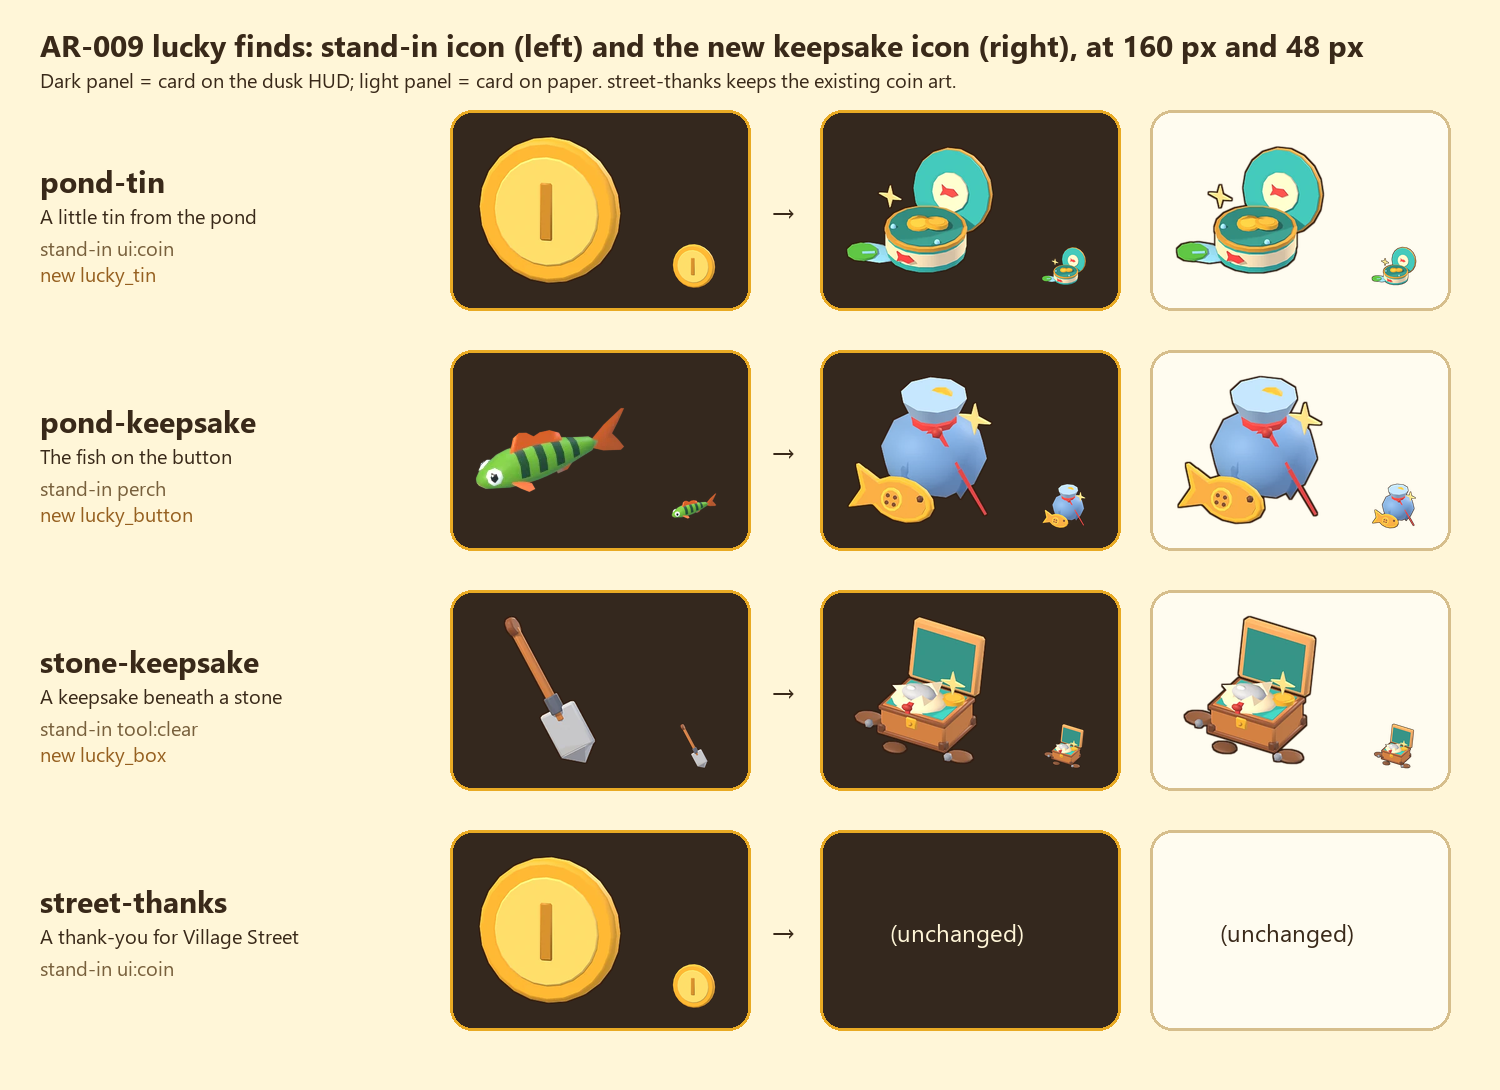
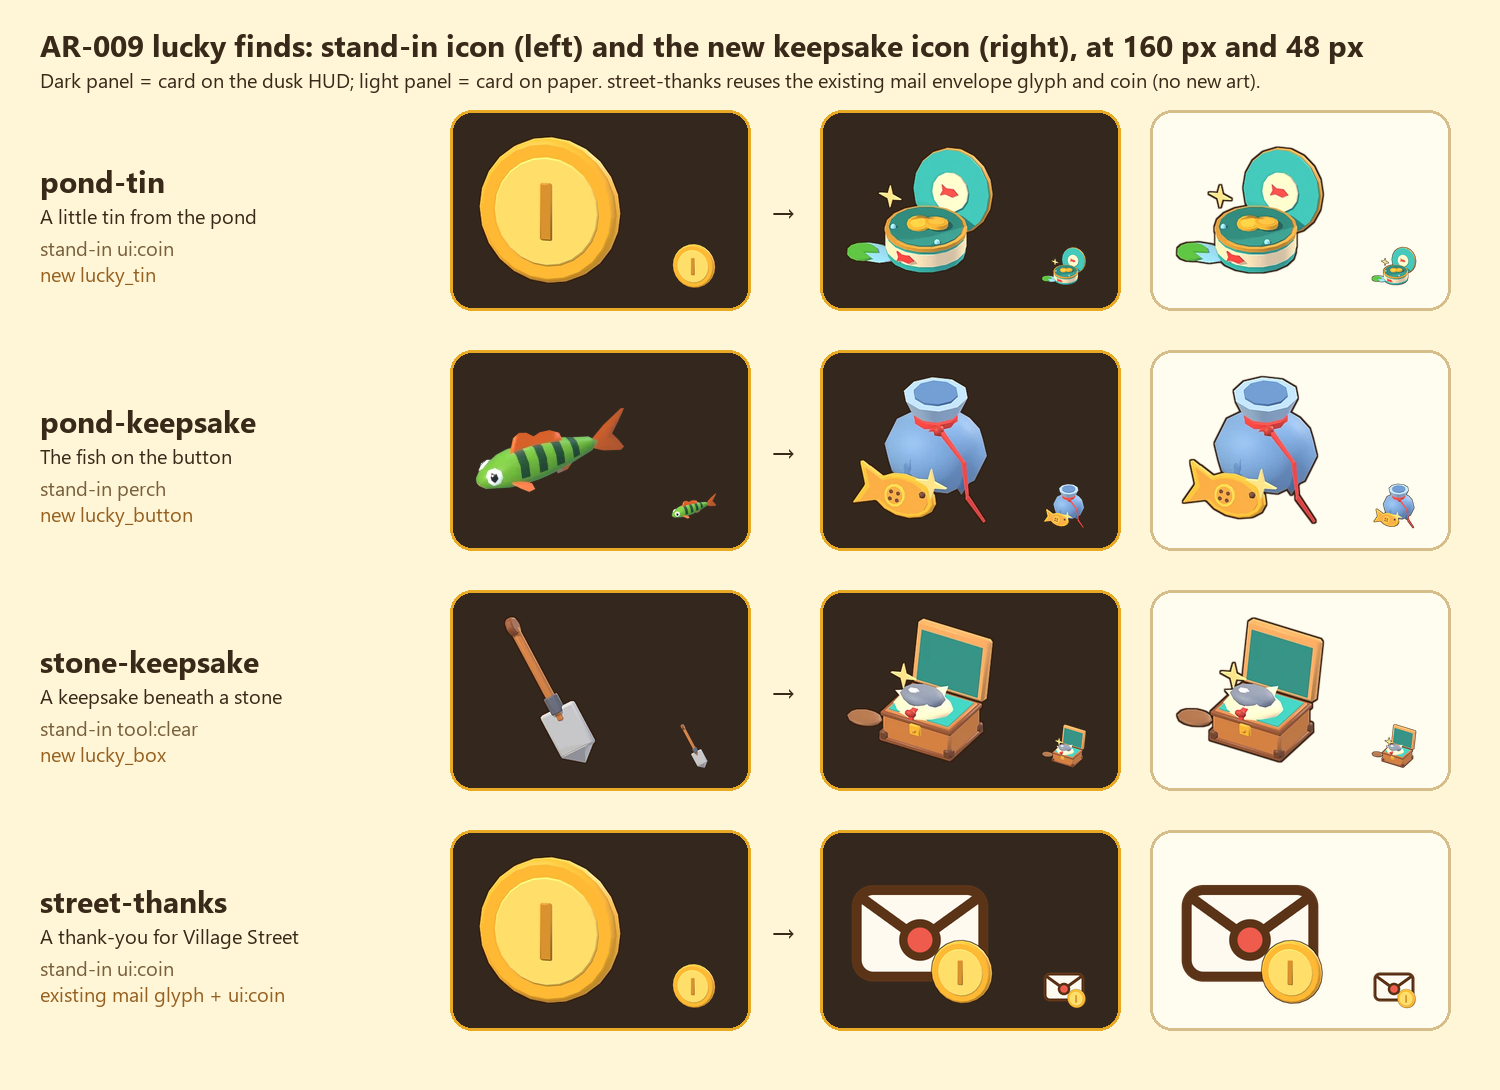
Second review pass on the keepsakes; correct the AR-009 delivery docs
Visual: the glint now sits on each subject (tin, button, pebble); the pouch
loses its coin and gets an open neck, and its drawstring drapes outside the
cloth; the box loses its coin and corner soil and gets a slate pebble; the tin's
lily pad has a real notch. Docs: measured sizes (three decimals), street-thanks
uses the existing mail envelope glyph with the coin, test results on the tree
merged with main, icon count explained, statuses set to delivered.

diff --git a/art/blender/build_farm_kit.py b/art/blender/build_farm_kit.py
@@ -41,7 +41,7 @@ for n, c in {
         'berry': '#E8335A', 'berryl': '#FF5C7A', 'bloom': '#FFFDF6', 'soil': '#7A4A2A', 'soill': '#93603A', 'soild': '#5E3720',
         'rim': '#9C6236', 'riml': '#B87A45',
         # keepsakes (AR-009)
-        'cloth': '#6F9FD8', 'clothd': '#5281BE', 'clothl': '#9DC2EC',
+        'cloth': '#6F9FD8', 'clothd': '#5281BE', 'clothl': '#9DC2EC', 'pebble': '#7D8BA6',
         }.items():
     C[n] = mat('FK ' + n, c, .55)
 
@@ -786,11 +786,11 @@ def obstacle_log():
 piece('obstacle_log', obstacle_log(), decor)
 
 # =================================================================== lucky finds (AR-009)
-# One-time keepsakes from the pond and a cleared rock, in their own kit, discovery-props.glb, which nothing loads until
-# the logic lane shows one (no world placement, no footprint). Modelled at about 0.5 m for comfortable numbers, then
-# scaled to a small handheld size (HANDHELD) when the kit is written; icons frame them either way. Warm painted colours; brass and gold only on rims, a clasp and a token coin or
-# two (the story's coins are counted in the card, not piled on the prop), plus one small four-point glint each:
-# charming keepsakes, not treasure. Each stays under the 1,200-triangle prop budget.
+# One-time keepsakes from the pond and a cleared rock, in their own kit, discovery-props.glb, which nothing loads
+# until the logic lane shows one (no world placement, no footprint). Modelled at about 0.5 m for comfortable numbers,
+# then scaled to a small handheld size (HANDHELD) when the kit is written; icons frame them either way. Warm painted
+# colours; brass and gold only on rims, the button, one clasp and two coins in the tin (the story's coins are counted
+# in the card, not piled on the props), plus one small four-point glint on each subject: keepsakes, not treasure.
 def glint(x, y, z, r=.07, mt='lampglow'):
     """A small upright four-point sparkle facing the front."""
     pts = [(math.cos(k * math.pi / 4 + math.pi / 2) * (r if k % 2 == 0 else r * .28),
@@ -804,7 +804,7 @@ def tilted(tilt, y0, z0, dy, dz):
 
 def lucky_tin():
     """A little round tin the pond gave up: teal paint, a wide cream label with a red fish, brass rims, the lid leaning
-    on its back, two of its coins showing, a puddle and a lily pad beside it and a drop or two of pond water on top."""
+    on its back, two of its coins showing, a puddle and a notched lily pad beside it and two drops of pond water on its rim."""
     p = [cl('tin', .22, .15, 0, 0, 0, 'teal', verts=18),
          cl('label', .224, .08, 0, 0, .035, 'cream', verts=18),
          cl('rim', .228, .022, 0, 0, .135, 'hayd', verts=18),
@@ -821,8 +821,8 @@ def lucky_tin():
     p.append(extrude_outline('lidfish', fish, .008, ax(.04), C['red'], rot=(t + math.pi / 2, 0, 0), bev=0))
     # pond water: a flat puddle and a lily pad at the front left, two smooth drops on the rim
     p.append(ball('puddle', .08, -.24, .16, .004, 'waterl', sub=2, sc=(1.7, 1.2, .08)))
-    p.append(cl('lilypad', .085, .014, -.29, .2, .008, 'leaf', verts=10))
-    p.append(bx('lilynotch', .07, .02, .02, -.25, .2, .006, 'waterl', bev=0, rot=.6))
+    pad = [(0, 0)] + [(math.cos(a) * .085, math.sin(a) * .085) for a in (.45 + k * (math.tau - .9) / 11 for k in range(12))]
+    p.append(extrude_outline('lilypad', pad, .014, (-.29, -.2, .015), C['leaf'], rot=(math.pi / 2, 0, 0), bev=0))   # notch cut in
     for x, y in ((-.15, .1), (.14, .12)):
         p.append(ball('drop', .016, x, y, .166, 'waterl', sub=2, sc=(1, 1, 1.25)))
     p.append(glint(-.17, .1, .36))
@@ -835,21 +835,22 @@ def fish_outline(L=.17, H=.1, n=12):
     return pts + [(-L * 1.55, H * 1.05), (-L * 1.25, 0), (-L * 1.55, -H * 1.05)]
 
 def lucky_button():
-    """A brass button shaped like a fish, propped against the soft blue cloth pouch it came in, one coin peeking from
-    the pouch's mouth and its red drawstring loose. The button has a bright rim, a darker brass face, an eye and a
+    """A brass button shaped like a fish, propped against the soft blue cloth pouch it came in, the pouch's red
+    drawstring loose. The button has a bright rim, a darker brass face, an eye and a
     four-hole centre, so it reads as a button and not as a coin or a biscuit; a tiny pond is engraved on its back."""
     p = [ball('pouch', .2, 0, -.05, .17, 'cloth', sub=2, sc=(1.05, 1, .85)),
          cl('neck', .085, .08, 0, -.05, .29, 'clothd', verts=10, rt=.06),
          cl('ruffle', .1, .07, 0, -.05, .36, 'clothl', verts=10, rt=.13),
          cl('tie', .09, .03, 0, -.05, .31, 'red', verts=10),
-         st((.07, .03, .32), (.17, .05, .2), .012, 'red', sides=4),
-         st((.17, .05, .2), (.27, .02, .01), .012, 'red', sides=4),
+         st((.07, .03, .32), (.21, .09, .25), .012, 'red', sides=4),
+         st((.21, .09, .25), (.25, .13, .12), .012, 'red', sides=4),
+         st((.25, .13, .12), (.31, .10, .01), .012, 'red', sides=4),
          st((.04, .03, .32), (-.08, .1, .23), .012, 'red', sides=4),
          ball('knot', .026, .06, .03, .32, 'redd', sub=1)]
     for k in range(5):   # cloth folds
         a = k * math.tau / 5 + .4
         p.append(ball('fold', .07, math.cos(a) * .17, -.05 + math.sin(a) * .17, .14, 'clothd', sub=1, sc=(.5, .5, 1.4)))
-    p += coin(.02, -.07, .38, tilt=1.15, r=.06)   # one of the forty coins, peeking out of the pouch
+    p.append(cl('mouth', .09, .01, 0, -.05, .43, 'clothd', verts=10))   # the open neck of the pouch
     # The button leans against the front of the pouch, lying on its side (head toward +x), tilted back 0.35 rad.
     t, y0, z0 = .35, .2, .09
     body = fish_outline(L=.14, H=.085)
@@ -871,14 +872,14 @@ def lucky_button():
     x, y, z = back(-.01, 0, .025); p.append(cyl('pondmark', .036, .006, (x, -y, z), C['hayd'], verts=12, bev=0, seg=1, rot=face))
     for dx, dz in ((-.022, .008), (.004, -.01)):
         x, y, z = back(-.01 + dx, dz, .029); p.append(box('ripple', (.026, .004, .006), (x, -y, z), C['woodd'], bev=0, seg=1, rot=(-t, 0, 0)))
-    p.append(glint(.24, .05, .45))
+    p.append(glint(.17, .28, .24))   # on the button, the subject
     return p
 piece('lucky_button', lucky_button(), discovery)
 
 def lucky_box():
     """A small trinket box from under a cleared rock: warm wood with darker wooden corners and one brass clasp, a teal
-    lining, the lid open on its back hinge, a smooth pebble on a cream cloth tied with a red ribbon, one coin tucked in
-    the corner, and a little spill of earth beside it."""
+    lining, the lid open on its back hinge, a smooth slate pebble on a cream cloth tied with a red ribbon, and a crumb of
+    earth beside it."""
     W, D, H = .38, .3, .17
     p = [bx('base', W, D, H, 0, 0, 0, 'wood', bev=.015),
          bx('lining', W - .05, D - .05, .012, 0, 0, H - .006, 'teal', bev=0),
@@ -901,15 +902,10 @@ def lucky_box():
         p.append(lf((-.03, .02, H + .02), .9 + k * 2.1, .15, .13, 'cream', lift=.03, droop=-.01))
     p.append(bx('ribbon', .03, .26, .05, -.03, .02, H - .01, 'red', bev=.005))
     p.append(ball('bow', .022, -.03, .15, H + .03, 'redd', sub=1, sc=(1.6, .8, 1)))
-    p.append(ball('pebble', .07, -.03, .03, H + .055, 'stone', sub=2, sc=(1.4, 1, .5)))
-    p.append(ball('pebblesheen', .02, -.06, .05, H + .085, 'white', sub=1, sc=(1.6, 1, .4)))
-    p += coin(.12, -.06, H - .002, tilt=-.12, r=.06)
-    # a little spill of earth off the front corners, with two small stones
-    for x, y, r in ((-.3, .06, .045), (.28, .15, .04), (-.05, .24, .035)):
-        p.append(ball('soil', r, x, y, .004, 'soil', sub=2, sc=(1.8, 1.4, .3)))
-    for x, y in ((-.27, .12), (.24, .2)):
-        p.append(ball('stone', .025, x, y, .015, 'stoned', sub=1))
-    p.append(glint(.2, .08, .38))
+    p.append(ball('pebble', .085, -.03, .03, H + .065, 'pebble', sub=2, sc=(1.4, 1, .5)))
+    p.append(ball('pebblesheen', .022, -.065, .055, H + .1, 'stonel', sub=1, sc=(1.6, 1, .4)))
+    p.append(ball('soil', .05, -.36, .02, .004, 'soill', sub=2, sc=(1.8, 1.4, .3)))   # a crumb of earth from under the rock
+    p.append(glint(-.12, .06, .34))   # on the pebble, the subject
     return p
 piece('lucky_box', lucky_box(), discovery)
 

diff --git a/docs/ASSET-REQUESTS.md b/docs/ASSET-REQUESTS.md
@@ -90,7 +90,7 @@ replaced) and `dropped`.
 | AR-006 | Colour comes home (faded ruins) | restoration | P2 | proposed |
 | AR-007 | Tết set | update for late January 2027 | P3 | proposed |
 | AR-008 | Small happy faces on a few crops and fruit | optional charm | P3 | proposed, needs the user's yes |
-| AR-009 | Small discovery keepsakes and icons | introductory discoveries | P1 | requested |
+| AR-009 | Small discovery keepsakes and icons | introductory discoveries | P1 | delivered (PR #PRNUM, awaiting logic-lane check) |
 
 Requests AR-001 to AR-008 originated as art-lane proposals, drawn from `docs/JOURNEY.md` and `docs/RESEARCH-APPEAL.md`.
 AR-001 was built with the scope in `docs/CLAUDE-HANDOFF.md` and is live; the others remain proposed. The user or logic lane
@@ -175,7 +175,8 @@ confirms each separately, changes it, or drops it. Ids and sizes are suggestions
   close, never sad, with a setting to turn them off. The pattern comes from My Dear Farm; the art is our own.
 
 ### AR-009: Small discovery keepsakes and icons
-- Status: requested · Priority: P1 · For: introductory discoveries · Asked by: user / logic lane, 2026-10-08
+- Status: delivered (PR #PRNUM, awaiting logic-lane check; delivery note in "Notes between lanes") · Priority: P1 ·
+  For: introductory discoveries · Asked by: user / logic lane, 2026-10-08
 - Scope: [CLAUDE-DISCOVERY-HANDOFF.md](CLAUDE-DISCOVERY-HANDOFF.md). First delivery is assets and registration only,
   on `art/discovery-props` in the art worktree. Codex owns rules, saves, UI behavior, story and English/Vietnamese
   content on `codex/dialogue-review`. AR-001 remains done; this request does not approve AR-002 through AR-008.
@@ -233,27 +234,35 @@ confirms each separately, changes it, or drops it. Ids and sizes are suggestions
   28 smoke checks and both builds pass. Production first load is 967,982 bytes. Claude can consume these events on
   its art branch; visual handler ownership remains with Claude. Review AR-001 in play before a production merge.
 
-- 2026-10-08, art lane, **AR-009 delivered** on `art/discovery-props` (from `origin/main` `a1607de`; PR and commit
-  below). Built to `docs/CLAUDE-DISCOVERY-HANDOFF.md` on `codex/dialogue-review` (read only):
-  - Source: `art/blender/build_farm_kit.py`, section "lucky finds (AR-009)" (new soft cloth colours `cloth`, `clothd`,
-    `clothl`); icon jobs in `art/blender/icons.json`. Blender 4.5.9 LTS, vertex colours, packed with
-    `art/blender/pack.mjs` (meshopt). `farm-kit.glb` and `decor.glb` are byte-identical to `main`.
-  - Kit: **`public/assets/models/discovery-props.glb`** (27.7 KB), nodes `lucky_tin`, `lucky_button`, `lucky_box`.
-    Nothing loads it yet: no world placement, no footprint, no KIND_MODELS entry; load it with `loadKit('discovery-props')`
-    when a card or reveal needs a model. Front faces +z, origin at the base centre, metres.
-  - `lucky_tin`: 1,076 triangles, 0.18 × 0.21 × 0.14 m (w × d × h, lid included): a teal tin with a cream label and red
-    fish, brass rims, the lid leaning behind, two coins, a puddle and a lily pad beside it.
-  - `lucky_button`: 1,076 triangles, 0.16 × 0.15 × 0.16 m: a brass fish button with a four-hole centre and an eye,
-    leaning on a soft blue cloth pouch (red drawstring, one coin at its mouth). The tiny pond (ring, pool and ripple) is
+- 2026-10-08, art lane, **AR-009 delivered**: [PR #PRNUM](https://github.com/buicongnguyen/Farm_village/pull/PRNUM),
+  branch `art/discovery-props` at `ARTCOMMIT`, merged with `origin/main` `ab6b230` (PR #4). Built to
+  `docs/CLAUDE-DISCOVERY-HANDOFF.md`.
+  - Source: `art/blender/build_farm_kit.py`, section "lucky finds (AR-009)" (new colours `cloth`, `clothd`, `clothl`,
+    `pebble`); icon jobs in `art/blender/icons.json`. Blender 4.5.9 LTS, vertex colours, packed with
+    `art/blender/pack.mjs` (meshopt). `farm-kit.glb` and `decor.glb` are byte-identical to `main`. Provenance:
+    `docs/ASSETS.md`, "AR-009 lucky finds".
+  - Kit: **`public/assets/models/discovery-props.glb`** (25.6 KB), nodes `lucky_tin`, `lucky_button`, `lucky_box`, one
+    static mesh each. Nothing loads it yet: no world placement, no footprint, no `KIND_MODELS` entry; load it with
+    `loadKit('discovery-props')` when a card or reveal needs a model. Front faces +z, origin at the base centre, metres.
+  - `lucky_tin`: 1,076 triangles, 0.183 × 0.205 × 0.140 m (w × d × h, lid included): a teal tin with a cream label and
+    red fish, brass rims, the lid leaning behind, two coins, a puddle and a notched lily pad beside it.
+  - `lucky_button`: 1,032 triangles, 0.159 × 0.161 × 0.132 m: a brass fish button with a four-hole centre, an eye and
+    the glint, leaning on a soft blue cloth pouch with a loose red drawstring. The tiny pond (ring, pool and ripple) is
     engraved on the button's back, which faces the pouch in this pose.
-  - `lucky_box`: 1,104 triangles, 0.22 × 0.17 × 0.15 m: a wooden trinket box with a teal lining and one brass clasp,
-    a smooth pebble on cream cloth tied with a red ribbon, one coin, a little spill of earth.
+  - `lucky_box`: 816 triangles, 0.194 × 0.132 × 0.148 m: a wooden trinket box with a teal lining and one brass clasp, a
+    smooth slate pebble (with the glint) on cream cloth tied with a red ribbon, a crumb of earth beside it.
   - Icons: `public/assets/icons/lucky_tin.webp`, `lucky_button.webp`, `lucky_box.webp` (256 px, transparent).
   - Registered: `src/view/kinds.mjs` `KITS['discovery-props']`; `src/content/icons.mjs` `ICON_IDS.keepsakes`.
     `tests/assets.test.mjs`: one check (≤ 1,200 triangles, handheld size, base origin, icon present, never placed).
-  - Screenshots: `docs/discovery-props/` (stand-in vs new icons at 160 px and 48 px on dark and light panels; a
+  - Screenshots: `docs/discovery-props/` (stand-in vs new icons at 160 px and actual 48 px on dark and light panels; a
     close-up render of the three props).
-  - `street-thanks`: no fourth asset. The set has no envelope icon, so `ui:coin` stays as the existing treatment.
+  - `street-thanks`: no fourth asset. The existing treatment is the `mail` envelope glyph (`iconHtml('mail')`,
+    `src/ui/icon.mjs`) with the `ui:coin` coin; there is no rendered envelope WebP. Which one its card shows is the
+    logic lane's choice.
+  - Checked on the merged tree: `npm test` 212/212; `npm run build:test` first-load code 986,420 of 1,100,000 bytes;
+    every kit meshopt-packed (`tests/assets.test.mjs`); all 16 browser suites (with
+    the new discoveries and profiles suites and the phone-budget checks) and `tests/browser.mjs` 28/28 pass on port 5242. Scene budgets (≤ 120 draws, ≤ 300,000
+    triangles at every zoom) are unchanged because no scene loads the new kit.
   - No changes to `juice.mjs`, `fx.mjs`, `discoveries.mjs`, triggers, rewards, saves, dialogue or UI.
   - For the logic lane: switch the three stand-in icons in `DISCOVERIES` after integration (`ui:coin` → `lucky_tin`,
     `perch` → `lucky_button`, `tool:clear` → `lucky_box`) and check the cards on phone and PC in both languages. A

diff --git a/docs/ASSETS.md b/docs/ASSETS.md
@@ -32,7 +32,7 @@ MIT) is a build tool only, not a dependency of the game.
 
 | Files | Source | Notes |
 |---|---|---|
-| 92 WebP icons, 256 px | New: `art/blender/render_icons.py` and `icon_post.py`, ported from Starline's scripts of the same names (at 42424c7) | Job list `art/blender/icons.json`. Goods from `art/blender/build_items.py` (new); buildings and decorations from our kits; tools: Starline `hammer.glb`, our shovel, sickle, glove and Starline crate; portraits: Starline `villager-man/woman/kid.glb`, `hana.glb`, `mika.glb`, `genzo.glb` (Starline `build_characters.py`), recoloured per person. Willowmere's and Starline's icon sheets were used only as a visual reference |
+| 92 WebP icons: 88 rendered at 256 px from `icons.json`, plus the four 160 px Willowmere fish icons listed under v0.3b | New: `art/blender/render_icons.py` and `icon_post.py`, ported from Starline's scripts of the same names (at 42424c7) | Job list `art/blender/icons.json`. Goods from `art/blender/build_items.py` (new); buildings and decorations from our kits; tools: Starline `hammer.glb`, our shovel, sickle, glove and Starline crate; portraits: Starline `villager-man/woman/kid.glb`, `hana.glb`, `mika.glb`, `genzo.glb` (Starline `build_characters.py`), recoloured per person. Willowmere's and Starline's icon sheets were used only as a visual reference |
 
 ## Added in v0.3b
 `farm-kit.glb` gained `truck` and `pond` (our own Blender pieces, `art/blender/build_farm_kit.py`). Icons `perch`, `carp`, `catfish`, `goldfish` are copied from Willowmere (`3d_farmer_fish_sell/public/assets/icons/fish/fish_perch|carp|catfish|golden.webp`); `round_tree`, `pine_tree` are rendered from Willowmere's `scenery.glb` (`tree_round`, `tree_pine`); `market`, `pond`, `truck` icons from our own kit.
@@ -74,9 +74,9 @@ MIT) is a build tool only, not a dependency of the game.
 ## AR-009 lucky finds
 
 - `discovery-props.glb`: original `lucky_tin` (a teal tin with a cream label and red fish, brass rims, its lid, two
-  coins, a puddle and a lily pad), `lucky_button` (a brass fish button with a four-hole centre and a tiny pond engraved
-  on its back, against a soft blue cloth pouch) and `lucky_box` (a wooden trinket box with a teal lining, a pebble on a
-  ribbon-tied cloth, one coin). Made in `art/blender/build_farm_kit.py` with the existing vertex-colour helpers at a
+  coins, a puddle and a notched lily pad), `lucky_button` (a brass fish button with a four-hole centre and a tiny pond
+  engraved on its back, against a soft blue cloth pouch) and `lucky_box` (a wooden trinket box with a teal lining and a
+  slate pebble on ribbon-tied cloth). Made in `art/blender/build_farm_kit.py` with the existing vertex-colour helpers at a
   0.5 m working size and written at handheld size (× 0.3); Blender 4.5.9 LTS; packed with `art/blender/pack.mjs`.
   No third-party asset or reference-game art used.
 - Icons `lucky_tin`, `lucky_button`, `lucky_box`: `art/blender/render_icons.py` jobs in `icons.json`

diff --git a/docs/discovery-props/README.md b/docs/discovery-props/README.md
@@ -1,23 +1,25 @@
 # AR-009 lucky-discovery keepsakes
 
-Three original keepsakes for the one-time discoveries (brief: `docs/CLAUDE-DISCOVERY-HANDOFF.md` on the logic branch).
+Three original keepsakes for the one-time discoveries (brief: `docs/CLAUDE-DISCOVERY-HANDOFF.md`).
 They live in their own kit, `public/assets/models/discovery-props.glb`, which nothing loads until a discovery card or
 reveal asks for it.
 
 | Discovery | Stand-in icon now | New prop and icon | Triangles | Size (w × d × h) |
 |---|---|---|---|---|
-| `pond-tin`: a little tin from the pond | `ui:coin` | `lucky_tin` | 1,076 | 0.18 × 0.21 × 0.14 m |
-| `pond-keepsake`: the fish on the button | `perch` | `lucky_button` | 1,076 | 0.16 × 0.15 × 0.16 m |
-| `stone-keepsake`: a keepsake beneath a stone | `tool:clear` | `lucky_box` | 1,104 | 0.22 × 0.17 × 0.15 m |
-| `street-thanks`: a thank-you for Village Street | `ui:coin` | unchanged: existing coin art | - | - |
+| `pond-tin`: a little tin from the pond | `ui:coin` | `lucky_tin` | 1,076 | 0.183 × 0.205 × 0.140 m |
+| `pond-keepsake`: the fish on the button | `perch` | `lucky_button` | 1,032 | 0.159 × 0.161 × 0.132 m |
+| `stone-keepsake`: a keepsake beneath a stone | `tool:clear` | `lucky_box` | 816 | 0.194 × 0.132 × 0.148 m |
+| `street-thanks`: a thank-you for Village Street | `ui:coin` | no new art: the existing `mail` envelope glyph and `ui:coin` | - | - |
 
 - `icons-before-after.png`: each stand-in beside the new icon at 160 px and 48 px (actual phone size), on a dark (dusk
   HUD) and a light (paper card) panel.
 - `keepsakes-blender.jpg`: a close-up of the three props together, rendered in Blender under the kit's preview lights
   on the game's lawn colour (`#72bd3e`). The studio lights make the grass read lighter than in the game.
 
-Look: warm painted colours (teal, cream, red, soft blue cloth, honey wood); brass and gold only on rims, one clasp and
-a token coin or two; one small pale-gold four-point glint each. Three different silhouettes: a round tin with its lid
+Look: warm painted colours (teal, cream, red, soft blue cloth, honey wood, slate); brass and gold only on rims, the
+button, one clasp and two coins in the tin; one small pale-gold four-point glint on each subject (the tin, the button,
+the pebble). Three different silhouettes: a round tin with its lid
 up, a fish button against a pouch, a square box with its lid open. The button's tiny engraved pond is on its back,
 facing the pouch in this pose. A first review pass judged the earlier versions too close to a treasure chest and a
-money bag; the red chest lining, brass corners, coin piles and cream sack were removed.
+money bag; the red chest lining, brass corners, coin piles and cream sack were removed, and a second pass moved the
+glints onto the subjects and took the coins off the pouch and the box.
